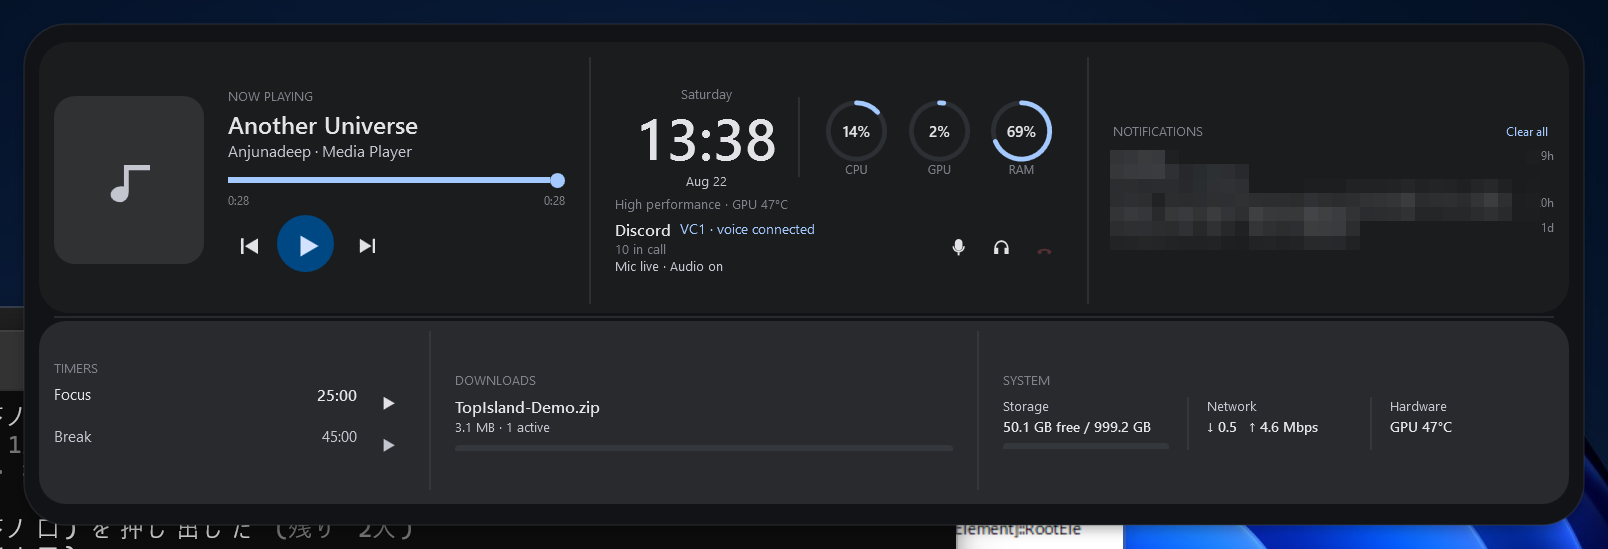
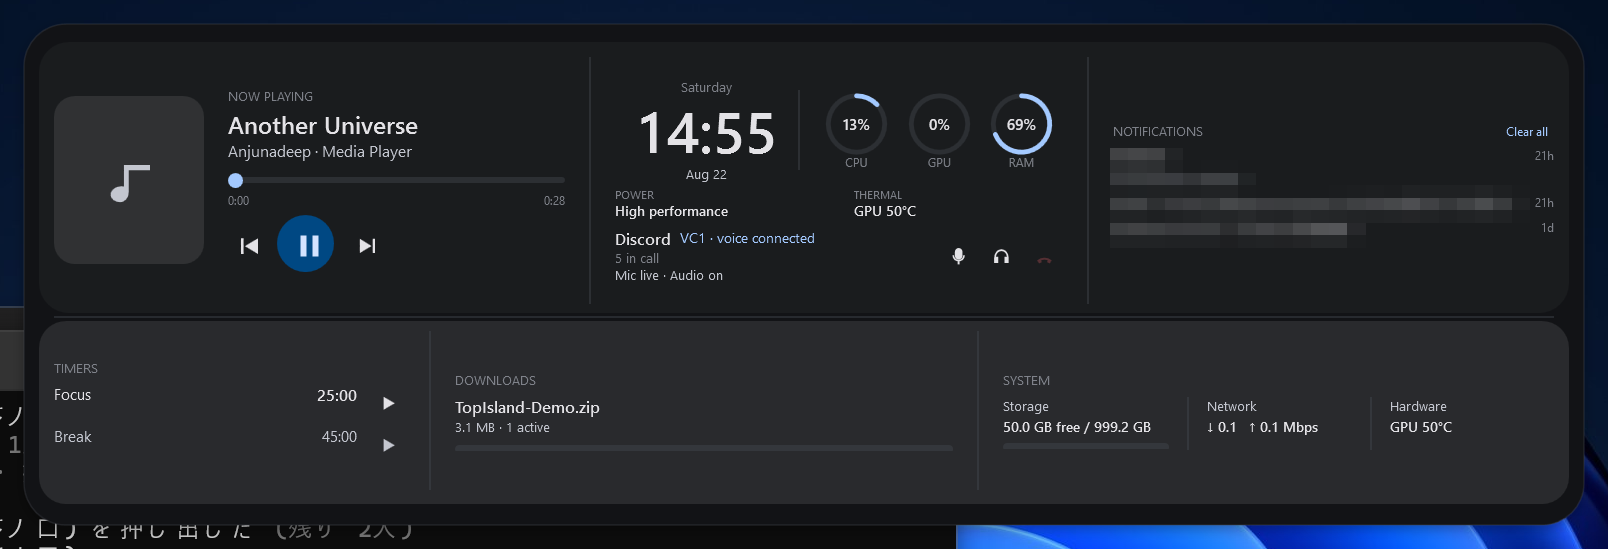
Refresh tachometer and expanded layout screenshots

diff --git a/README.md b/README.md
@@ -31,6 +31,7 @@ TopIsland currently uses real Windows/application data for:
 - Windows GMTC media title, source, artwork, playback position, interactive seek and Previous / Play-Pause / Next
 - Foreground application title, process and executable icon; Expanded also shows live foreground-process CPU, memory and process uptime in the SESSION lane when no download is active
 - **CPU / GPU / RAM** usage
+- Compact CPU/RAM use a clipped **270-degree tachometer sweep**: usage climbs clockwise from the lower-left across the top instead of behaving like a full circular progress ring
 - **Discord VC** from the live Discord Desktop accessibility tree, including hidden/tray-minimized Electron windows, channel/server, participant count, Mute/Deafen state and real Mute / Deafen / Leave controls when Discord exposes those UIA patterns
 - Network download/upload throughput
 - System-drive free/total storage
@@ -49,10 +50,14 @@ Notification permission is never requested automatically. If access is not alrea
 - **Peek** — reveals selected lower-priority information without opening the full surface
 - **Expanded** — Context/Now Playing, a large clock-centered Overview with CPU/GPU/RAM and Discord voice controls, and Notifications when present. The lower row is Timers, SESSION (foreground process telemetry) or active Downloads, and Storage / Network / Hardware
 
-Smaller widths remove information instead of shrinking every label. Downloads still exists only while a partial download is actively changing: otherwise the same middle lane becomes SESSION with foreground-process CPU, memory and uptime. Discord controls appear only while voice is connected, and Notifications collapse when unavailable. Full Width uses the otherwise empty center for Focus / Voice / active Downloads / Network / Storage instead of stretching artwork or text. The Expanded clock remains the visual anchor above the two-row information layout.
+Smaller widths remove information instead of shrinking every label. When no download is moving, the lower middle lane shows the foreground **SESSION** (process, memory, CPU, threads and uptime); an active download replaces that lane instead of creating another permanent card. Downloads still exists only while a partial download is actively changing: otherwise the same middle lane becomes SESSION with foreground-process CPU, memory and uptime. Discord controls appear only while voice is connected, and Notifications collapse when unavailable. Full Width uses the otherwise empty center for Focus / Voice / active Downloads / Network / Storage instead of stretching artwork or text. The Expanded clock remains the visual anchor above the two-row information layout.
 
 ## Screenshots
 
+<p align="center">
+  <b>Standard Idle · tachometer CPU/RAM</b><br>
+  <img src="docs/screenshots/compact-idle.png" alt="TopIsland Standard idle with tachometer CPU and RAM meters" width="72%">
+</p>
 <table>
   <tr>
     <td align="center"><b>Dynamic Island · Material You</b></td>

diff --git a/docs/DESIGN-AUDIT.md b/docs/DESIGN-AUDIT.md
@@ -1,4 +1,4 @@
-# TopIsland design audit
+# TopIsland design audit
 
 This document is the visual baseline for TopIsland. It exists to prevent future changes from drifting back into generic dashboard / glass-card UI.
 
